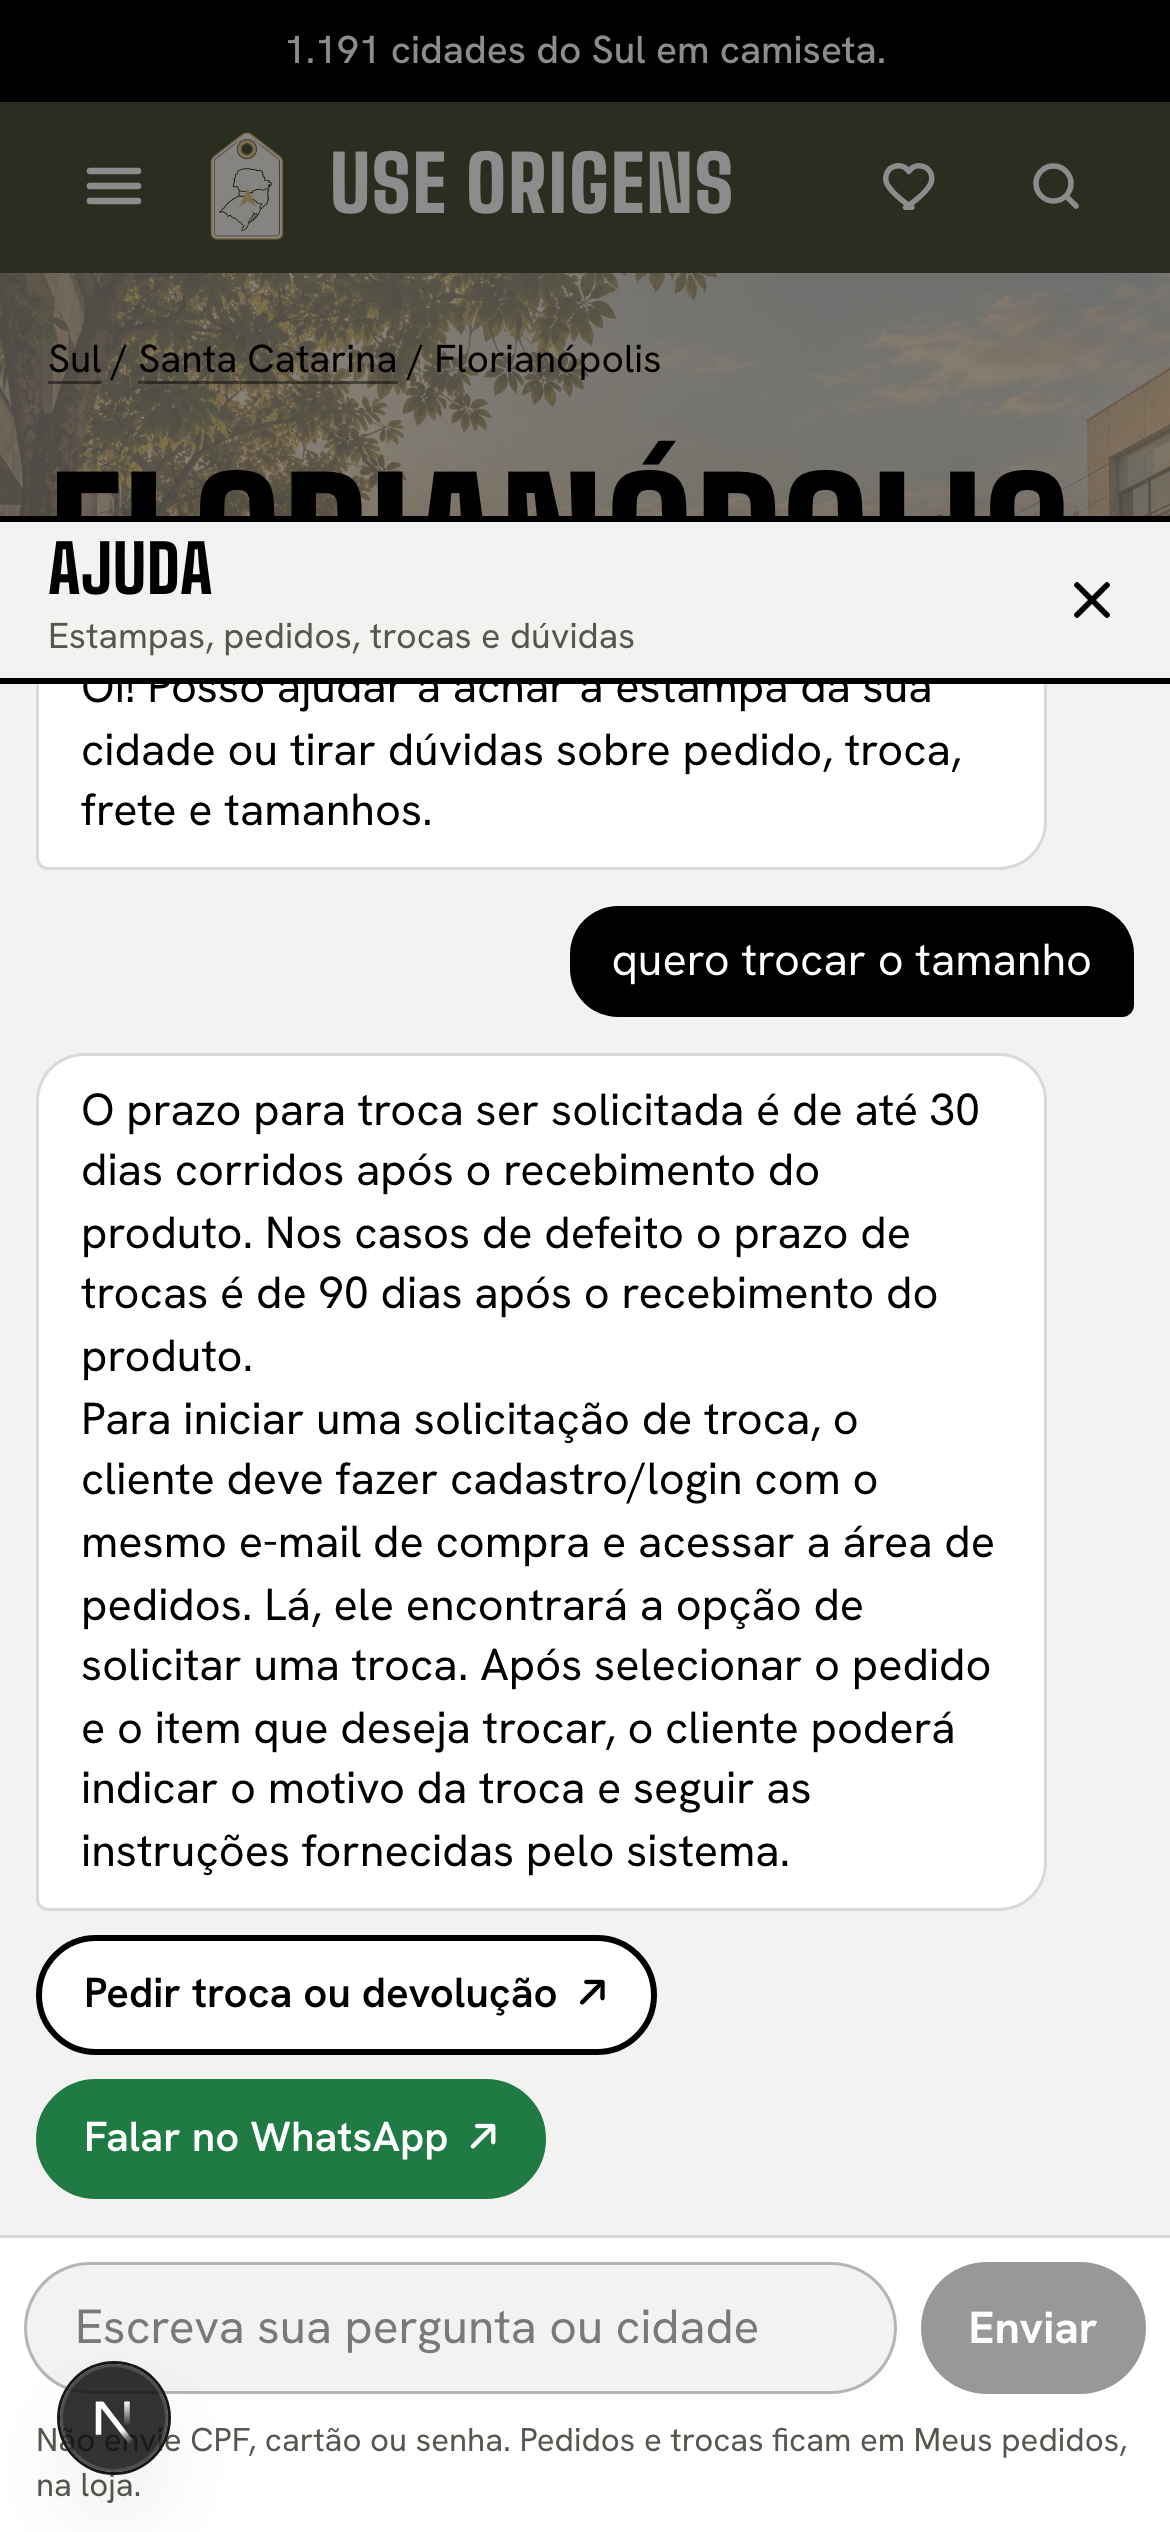
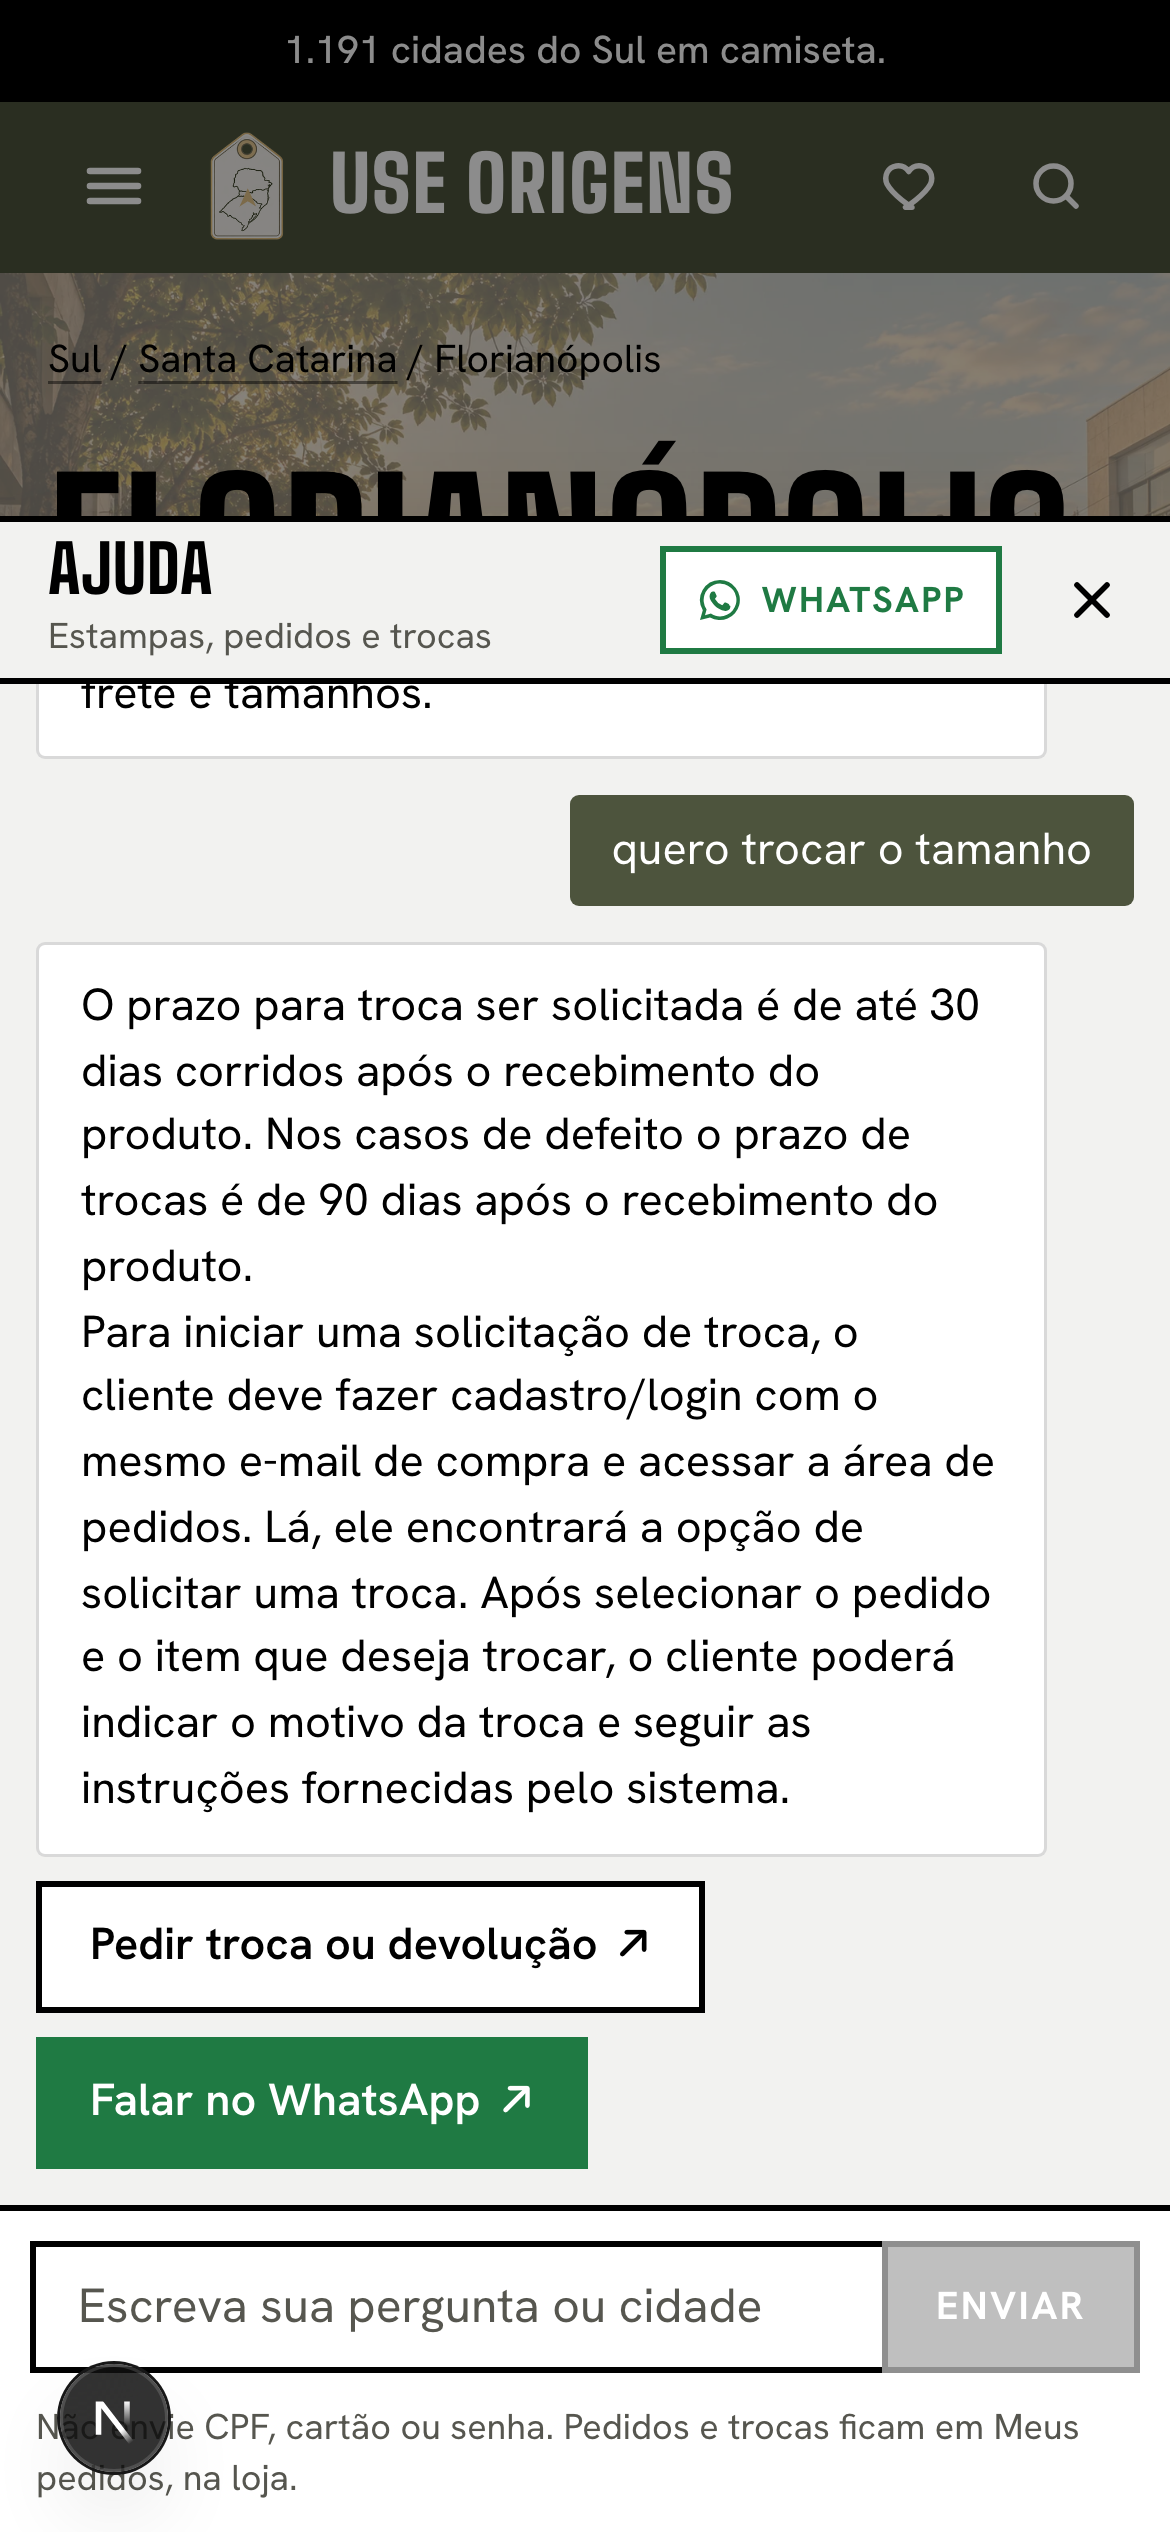
style(storefront): assistente com a linguagem da loja (cantos retos, borda preta, cor da região)
O botão Ajuda segue o de cupons (cor do cabeçalho da região), os botões seguem o
guia da página de produto, o campo e o Enviar seguem a busca e o Copiar, e quem
pergunta fala na cor da região. O "digitando" esmaece em vez de quicar.

Changed region(s): [[0.0, 0.2184, 0.9846, 0.9984]]

diff --git a/src/components/assistant/AssistantWidget.tsx b/src/components/assistant/AssistantWidget.tsx
@@ -318,14 +318,14 @@ export function AssistantWidget({ region, opening, mode = "live", ask, whatsapp 
     if (entry.from === "me") {
       return (
         <li key={i} className="flex justify-end">
-          <p className="max-w-[85%] whitespace-pre-line rounded-2xl rounded-br-sm bg-ink px-3.5 py-2 text-[0.9375rem] leading-snug text-white">{entry.text}</p>
+          <p className="max-w-[85%] whitespace-pre-line rounded-[3px] bg-[var(--region-primary,#111)] px-3.5 py-2 text-[0.9375rem] leading-snug text-white [overflow-wrap:anywhere]">{entry.text}</p>
         </li>
       );
     }
     const { reply } = entry;
     return (
       <li key={i} className="flex flex-col items-start gap-2" data-assistant-reply={reply.kind}>
-        <p className="max-w-[92%] whitespace-pre-line rounded-2xl rounded-bl-sm border border-black/15 bg-white px-3.5 py-2 text-[0.9375rem] leading-snug text-ink">{reply.text}</p>
+        <p className="max-w-[92%] whitespace-pre-line rounded-[3px] border border-black/15 bg-white px-3.5 py-2.5 text-[0.9375rem] leading-[1.45] text-ink [overflow-wrap:anywhere]">{reply.text}</p>
         {reply.items && reply.items.length > 0 && (
           <ul className="grid w-full grid-cols-2 gap-2" data-assistant="items">
             {reply.items.map((item, j) => (
@@ -333,16 +333,16 @@ export function AssistantWidget({ region, opening, mode = "live", ask, whatsapp 
                 <a
                   href={item.productId ? item.href : pathOf(item.href)}
                   onClick={() => itemClick(item, j + 1)}
-                  className="group flex h-full flex-col overflow-hidden rounded-lg border border-black/15 bg-white text-left transition-colors hover:border-black/40"
+                  className="group flex h-full flex-col overflow-hidden border border-black/15 bg-white text-left transition-colors duration-200 hover:border-[var(--region-primary,#111)]"
                 >
                   <span className="relative block aspect-square bg-[var(--ground,#e5e5e5)]">
                     {/* eslint-disable-next-line @next/next/no-img-element -- INK's own CDN picture, small, inside a chat bubble */}
                     <img src={item.image} alt="" loading="lazy" decoding="async" className="absolute inset-0 h-full w-full object-contain" />
                   </span>
                   <span className="flex flex-1 flex-col gap-0.5 p-2">
-                    <span className="line-clamp-2 text-[0.8125rem] font-semibold leading-tight">{item.title}</span>
+                    <span className="line-clamp-2 text-[0.8125rem] font-semibold leading-tight group-hover:underline group-hover:underline-offset-2">{item.title}</span>
                     {item.context && <span className="text-[0.75rem] text-ink-mute">{item.context}</span>}
-                    {item.price !== undefined && <span className="mt-auto pt-1 text-[0.8125rem] font-bold">{formatPrice(item.price)}</span>}
+                    {item.price !== undefined && <span className="mt-auto pt-1 text-[0.8125rem] font-bold tabular-nums">{formatPrice(item.price)}</span>}
                   </span>
                 </a>
               </li>
@@ -357,7 +357,7 @@ export function AssistantWidget({ region, opening, mode = "live", ask, whatsapp 
                 href={linkHref(link)}
                 {...(external(link) ? { target: "_blank", rel: "noopener noreferrer" } : {})}
                 onClick={() => track("origens_assistant_link_click", { link_kind: link.kind })}
-                className={`inline-flex min-h-10 items-center gap-1.5 rounded-full border-2 px-3.5 text-[0.875rem] font-semibold transition-colors ${link.kind === "whatsapp" ? "border-[#1f7a43] bg-[#1f7a43] text-white hover:bg-[#17633a]" : "border-ink bg-white text-ink hover:bg-ink hover:text-white"}`}
+                className={`inline-flex min-h-11 items-center gap-1.5 border-2 px-4 text-[0.9375rem] font-semibold transition-colors duration-200 ${link.kind === "whatsapp" ? "border-[#1f7a43] bg-[#1f7a43] text-white hover:border-[#17633a] hover:bg-[#17633a]" : "border-ink bg-white text-ink hover:border-[var(--region-primary,#111)] hover:bg-paper"}`}
                 data-assistant-link={link.kind}
               >
                 {link.label}
@@ -369,7 +369,7 @@ export function AssistantWidget({ region, opening, mode = "live", ask, whatsapp 
         {i === lastBot && reply.suggestions && reply.suggestions.length > 0 && (
           <div className="flex flex-wrap gap-1.5" data-assistant="suggestions">
             {reply.suggestions.map((s) => (
-              <button key={s} type="button" disabled={pending} onClick={() => void send(s, "chip")} className="min-h-9 rounded-full border border-black/25 bg-[var(--paper,#f2f2f0)] px-3 text-left text-[0.8125rem] font-medium leading-tight text-ink transition-colors hover:border-ink disabled:opacity-50">
+              <button key={s} type="button" disabled={pending} onClick={() => void send(s, "chip")} className="min-h-10 border border-black/30 bg-white px-3 py-1.5 text-left text-[0.8125rem] font-medium leading-tight text-ink transition-colors duration-200 hover:border-ink hover:bg-paper disabled:opacity-50">
                 {s}
               </button>
             ))}
@@ -401,10 +401,10 @@ export function AssistantWidget({ region, opening, mode = "live", ask, whatsapp 
           <div className="flex items-center justify-between gap-2 border-b-2 border-ink py-1 pl-4 pr-1">
             <div className="min-w-0">
               <h2 id={headingId} className="font-display text-[1.375rem] font-extrabold uppercase leading-none tracking-[0.01em]">Ajuda</h2>
-              <p className="mt-0.5 text-[0.75rem] text-ink-mute">Estampas, pedidos, trocas e dúvidas</p>
+              <p className="mt-0.5 text-[0.75rem] text-ink-mute">Estampas, pedidos e trocas</p>
             </div>
             {whatsapp && (
-              <a href={whatsapp} target="_blank" rel="noopener noreferrer" onClick={() => track("origens_assistant_link_click", { link_kind: "whatsapp_shortcut" })} className="ml-auto inline-flex min-h-9 shrink-0 items-center gap-1.5 rounded-full bg-[#1f7a43] px-3 text-[0.8125rem] font-bold text-white hover:bg-[#17633a]" data-testid="assistant-whatsapp-shortcut">
+              <a href={whatsapp} target="_blank" rel="noopener noreferrer" onClick={() => track("origens_assistant_link_click", { link_kind: "whatsapp_shortcut" })} className="ml-auto inline-flex min-h-9 shrink-0 items-center gap-1.5 border-2 border-[#1f7a43] bg-white px-2.5 text-[0.75rem] font-bold uppercase tracking-[0.06em] text-[#1f7a43] transition-colors duration-200 hover:bg-[#1f7a43] hover:text-white" data-testid="assistant-whatsapp-shortcut">
                 <svg width="16" height="16" viewBox="0 0 24 24" fill="currentColor" aria-hidden="true"><path d="M12 2a10 10 0 0 0-8.6 15.1L2 22l5-1.3A10 10 0 1 0 12 2Zm0 18.2c-1.5 0-3-.4-4.2-1.2l-.3-.2-3 .8.8-2.9-.2-.3A8.2 8.2 0 1 1 12 20.2Zm4.5-6.1c-.2-.1-1.5-.7-1.7-.8-.2-.1-.4-.1-.6.1l-.8 1c-.1.2-.3.2-.5.1a6.7 6.7 0 0 1-3.3-2.9c-.2-.4.2-.4.7-1.3.1-.2 0-.3 0-.4l-.8-1.8c-.2-.5-.4-.4-.6-.4h-.5c-.2 0-.5.1-.7.3-.2.3-.9.9-.9 2.2s.9 2.5 1 2.7c.1.2 1.8 2.8 4.4 3.9 1.6.7 2.3.8 3.1.6.5-.1 1.5-.6 1.7-1.2.2-.6.2-1.1.2-1.2-.1-.1-.3-.2-.5-.3Z" /></svg>
                 WhatsApp
               </a>
@@ -418,15 +418,15 @@ export function AssistantWidget({ region, opening, mode = "live", ask, whatsapp 
               {shown.map(bubble)}
               {pending && (
                 <li className="flex" data-testid="assistant-typing">
-                  <span className="inline-flex items-center gap-1 rounded-2xl rounded-bl-sm border border-black/15 bg-white px-3.5 py-3" role="status" aria-label="Digitando">
-                    {[0, 150, 300].map((d) => <span key={d} className="h-1.5 w-1.5 rounded-full bg-ink-mute motion-safe:animate-bounce" style={{ animationDelay: `${d}ms` }} />)}
+                  <span className="inline-flex items-center gap-1 rounded-[3px] border border-black/15 bg-white px-3.5 py-3" role="status" aria-label="Digitando">
+                    {[0, 150, 300].map((d) => <span key={d} className="h-1.5 w-1.5 rounded-full bg-ink-mute motion-safe:animate-pulse" style={{ animationDelay: `${d}ms` }} />)}
                     <span className="ml-1.5 text-[0.8125rem] text-ink-mute">digitando</span>
                   </span>
                 </li>
               )}
             </ol>
           </div>
-          <form onSubmit={onSubmit} className="flex items-center gap-2 border-t border-black/15 bg-white p-2">
+          <form onSubmit={onSubmit} className="flex items-stretch gap-0 border-t-2 border-ink bg-white p-2.5">
             <label htmlFor={`${panelId}-q`} className="sr-only">Sua pergunta</label>
             <input
               ref={inputRef}
@@ -437,14 +437,14 @@ export function AssistantWidget({ region, opening, mode = "live", ask, whatsapp 
               enterKeyHint="send"
               autoComplete="off"
               placeholder="Escreva sua pergunta ou cidade"
-              className="min-h-11 min-w-0 flex-1 rounded-full border border-black/25 bg-[var(--paper,#f2f2f0)] px-4 text-[1rem] outline-offset-2"
+              className="min-h-11 min-w-0 flex-1 border-2 border-r-0 border-ink bg-white px-3.5 text-[1rem] text-ink placeholder:text-ink-mute focus-visible:outline-2 focus-visible:outline-offset-[-4px] focus-visible:outline-[var(--region-primary,#111)]"
               data-testid="assistant-input"
             />
-            <button type="submit" disabled={pending || draft.trim() === ""} className="inline-flex h-11 shrink-0 items-center justify-center rounded-full bg-ink px-4 text-[0.9375rem] font-bold text-white disabled:opacity-40" data-testid="assistant-send">
+            <button type="submit" disabled={pending || draft.trim() === ""} className="inline-flex min-h-11 shrink-0 items-center justify-center border-2 border-ink bg-ink px-4 text-[0.8125rem] font-bold uppercase tracking-[0.06em] text-white transition-colors duration-200 hover:bg-white hover:text-ink disabled:border-black/25 disabled:bg-black/25" data-testid="assistant-send">
               Enviar
             </button>
           </form>
-          <p className="bg-white px-3 pb-2 text-[0.6875rem] leading-snug text-ink-mute">Não envie CPF, cartão ou senha. Pedidos e trocas ficam em Meus pedidos, na loja.</p>
+          <p className="bg-white px-3 pb-2.5 text-[0.75rem] leading-snug text-ink-mute">Não envie CPF, cartão ou senha. Pedidos e trocas ficam em Meus pedidos, na loja.</p>
         </div>
       )}
       <button
@@ -458,7 +458,7 @@ export function AssistantWidget({ region, opening, mode = "live", ask, whatsapp 
         data-testid="assistant-fab"
         className={[
           position,
-          "z-30 inline-flex h-12 items-center gap-2 rounded-full bg-ink pl-4 pr-5 text-[0.9375rem] font-bold text-white shadow-[0_6px_18px_rgb(0_0_0/0.24)] outline-offset-4 transition-transform duration-200 hover:-translate-y-0.5 active:translate-y-0",
+          "z-30 inline-flex h-12 items-center gap-2 rounded-xl bg-[var(--region-primary,#111)] pl-3.5 pr-4 text-[0.8125rem] font-extrabold uppercase tracking-[0.08em] text-white shadow-[0_6px_18px_rgb(0_0_0/0.24)] outline-offset-4 transition-transform duration-200 hover:-translate-y-0.5 active:translate-y-0 sm:h-14 sm:pl-4 sm:pr-5",
           live ? "bottom-[calc(max(1rem,env(safe-area-inset-bottom))+var(--assistant-bottom))] right-[max(1rem,env(safe-area-inset-right))]" : "bottom-4 right-4",
         ].join(" ")}
       >

diff --git a/src/app/[region]/layout.tsx b/src/app/[region]/layout.tsx
@@ -80,7 +80,10 @@ export default async function RegionLayout({ children, params }: { children: Rea
       {/* Coupons and promotions of THIS region (CMS, published only); renders nothing when there are none or anything fails. */}
       <PromoFab key={region} region={region} />
       {/* The help chat of THIS region ("Ajuda", CMS, published only): renders nothing when it is off or anything fails. */}
-      <AssistantFab key={`assistant-${region}`} region={region} />
+      {/* Outside the region wrapper (fixed, like the coupons): it gets the region's colours here, so its button wears the header's colour. */}
+      <div className="contents" style={{ ...regionThemeStyle(region), ...cssVars }}>
+        <AssistantFab key={`assistant-${region}`} region={region} />
+      </div>
     </ConsentProvider>
   );
 }
